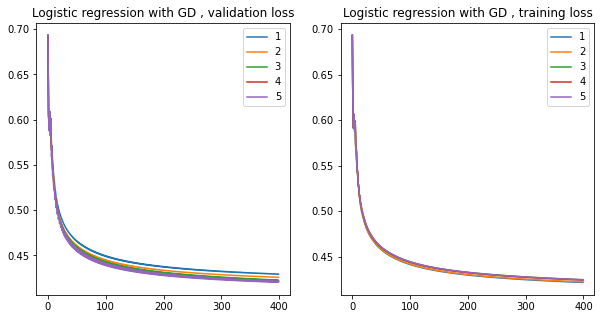
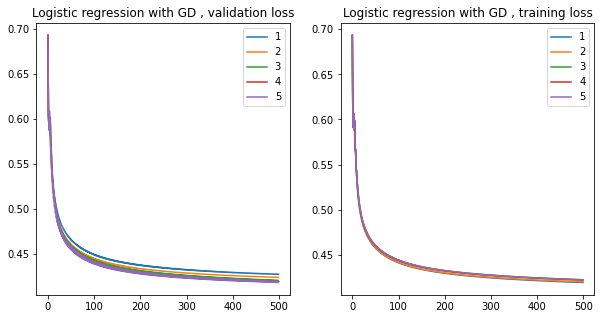
final_update report

diff --git a/report/report.tex b/report/report.tex
@@ -28,9 +28,9 @@ The Higgs boson, generated by quantum excitation of the Higgs field, is an eleme
 Starting by plotting histograms for each of the 30 features of the raw data, we noticed that 10 out of 30 of the features had samples with invalid $-999$ values.   This can be
 seen for one example feature in Fig.\ref{fig:example_pre_procs}. Because invalid values were present in significant numbers (around 100'000 for some features), removing those samples would have reduced our data almost by half and probably substantially impacted our training performance. Thus, to process these invalid samples, we replaced them with the median of the corresponding features without the invalid samples. We chose the median compared to the average as it is more robust to outliers. We mirrored the same process with the test set.
 \subsubsection{Outliers}\label{subsubsec:outliers}
-  Following the invalid values replacement, we searched for outliers in the data by applying the interquartile range rule, i.e. considering as outliers all samples $\leq Q_1-1.5IQR$ or $\geq Q_3+1.5IQR$ where $Q_1$ is the 25\% percentile and $Q_3$ the 75\%. In a first attempt, we lowered $Q1$ to $10\%$ and changed to the median all values $\leq 10\%(data)-1.5IQR$ or $\geq Q_3+1.5IQR$. Later, we noticed that our performance was greatest when removing only samples that were above  $85\%(data)+1.5IQR$. This reduced the training dataset from to 215311 samples and improved the accuracy of our model from 77\% to 80\%. The fact  that only removing "high tail" values improved our model might have been due to the fact that most features were positively skewed.  
+  Following the invalid values replacement, we searched for outliers in the data by applying the interquartile range rule, i.e. considering as outliers all samples $\leq Q_1-1.5IQR$ or $\geq Q_3+1.5IQR$ where $Q_1$ is the 25\% percentile and $Q_3$ the 75\%. In a first attempt, we lowered $Q1$ to $10\%$ and changed to the median all values $\leq 10\%(data)-1.5IQR$ or $\geq Q_3+1.5IQR$. Later, we noticed that our performance was greatest when removing only samples that were above  $85\%(data)+1.5IQR$. This reduced the training dataset from 250000 to 215311 samples and improved the accuracy of our model from 77\% to 81\%. The fact  that only removing "high tail" values improved our model might have been due to the fact that most features were positively skewed.  
   \subsection{Feature engineering}\label{subsec: feature_generation}
-    After invalid values and outliers were processed, we engineered our features by applying a polynomial kernel to our data. This added a bias column and a polynomial expansion of the form $\phi:[X]\rightarrow [1, X, X^2,...,X^k]$ where $X\in \mathbb{R}^{Nx30}$. The data was then further standardised using Z-score standardisation: $Z = \frac{X - \mu}{\sigma}$ where $\mu$ is the mean and $\sigma$ the standard deviation of our expanded data. The same process was applied to the test set, the exception being that the test set was standardized according to the mean and standard deviation of the training set and not the test. An example of final training feature distribution after pre-processing and feature engineering can be seen again Fig.\ref{fig:example_pre_procs}.
+    After invalid values and outliers were processed, we engineered our features by applying a polynomial kernel to our data. This added a bias column and a polynomial expansion of the form $\phi:[X]\rightarrow [1, X, X^2,...,X^k]$ where $X\in \mathbb{R}^{N\times30}$. The data was then further standardised using Z-score standardisation: $Z = \frac{X - \mu}{\sigma}$ where $\mu$ is the mean and $\sigma$ the standard deviation of our expanded data. The same process was applied to the test set, the exception being that the test set was standardized according to the mean and standard deviation of the training set and not the test. An example of final training feature distribution after pre-processing and feature engineering can be seen again Fig.\ref{fig:example_pre_procs}.
     
   \subsection{
   Model implementation
@@ -52,10 +52,10 @@ Following hyper-parameter tuning and some fine-tuning done by hand, regularized 
 \begin{itemize}
     \item Learning rate: 0.8
     \item Regularization: 0.02
-    \item Number of epochs: 400
+    \item Number of epochs: 500
     \item Degree of polynomial feature expansion: 3
 \end{itemize}
-Like mentioned in~\ref{subsec:model_impl}, validation accuracy and loss were evaluated over 5-fold cross-validation and results can be found in Table~\ref{tab:result_log_reg} and Fig.\ref{fig:train_val_lr}. As can be seen in Fig.\ref{fig:train_val_lr}, both losses decrease rapidly in the first 100 epochs and then more slowly as they tend towards the optimum for these parameters. The best fold gave a validation accuracy of 80.64\%, which corresponded to 79.9\% accuracy and 68.2\% F1 score on AIcrowd. 
+Like mentioned in~\ref{subsec:model_impl}, validation accuracy and loss were evaluated over 5-fold cross-validation and results can be found in Table~\ref{tab:result_log_reg} and Fig.\ref{fig:train_val_lr}. As can be seen in Fig.\ref{fig:train_val_lr}, both losses decrease rapidly in the first 100 epochs and then more slowly as they tend towards the optimum for these parameters. The best fold gave a validation loss of 0.4187 and accuracy of 81.12\%, which corresponded to 80.1\% accuracy and 68.7\% F1 score on AIcrowd. 
 \begin{figure}
   \centering
   \includegraphics[width=\columnwidth]{report/example_pre_procs.png}
@@ -103,13 +103,13 @@ In conclusion, the best performance on the Higgs boson experiment data-set was a
     \hline
     &Final loss&Final accuracy \\
     \hline
-    K = 1 & 0.4291 & 80.31 \% \\
-    K = 2 & 0.4257 & 80.46 \%\\
-    K = 3 & 0.4218 & 80.52 \%\\
-    K = 4 & 0.4208 & 80.96 \%\\
-    K = 5 & 0.4215 & 80.93 \%\\
+    K = 1 & 0.4272 & 80.46 \% \\
+    K = 2 &0.4238 & 80.56 \%\\
+    K = 3 &0.4198 & 80.70 \%\\
+    K = 4 &0.4188 & 81.12 \%\\
+    K = 5 & 0.4193 & 81.01 \%\\
      \hline
-    Average & 0.4265 & 80.64 \% \\
+    Average & 0.4265 & 80.78 \% \\
     \hline
   \end{tabular}
   \caption{Accuracy and loss on 20\% validation set for 400 epochs, learning rate of 0.8 and regularization of 0.02 for regularized logistic regression. }
